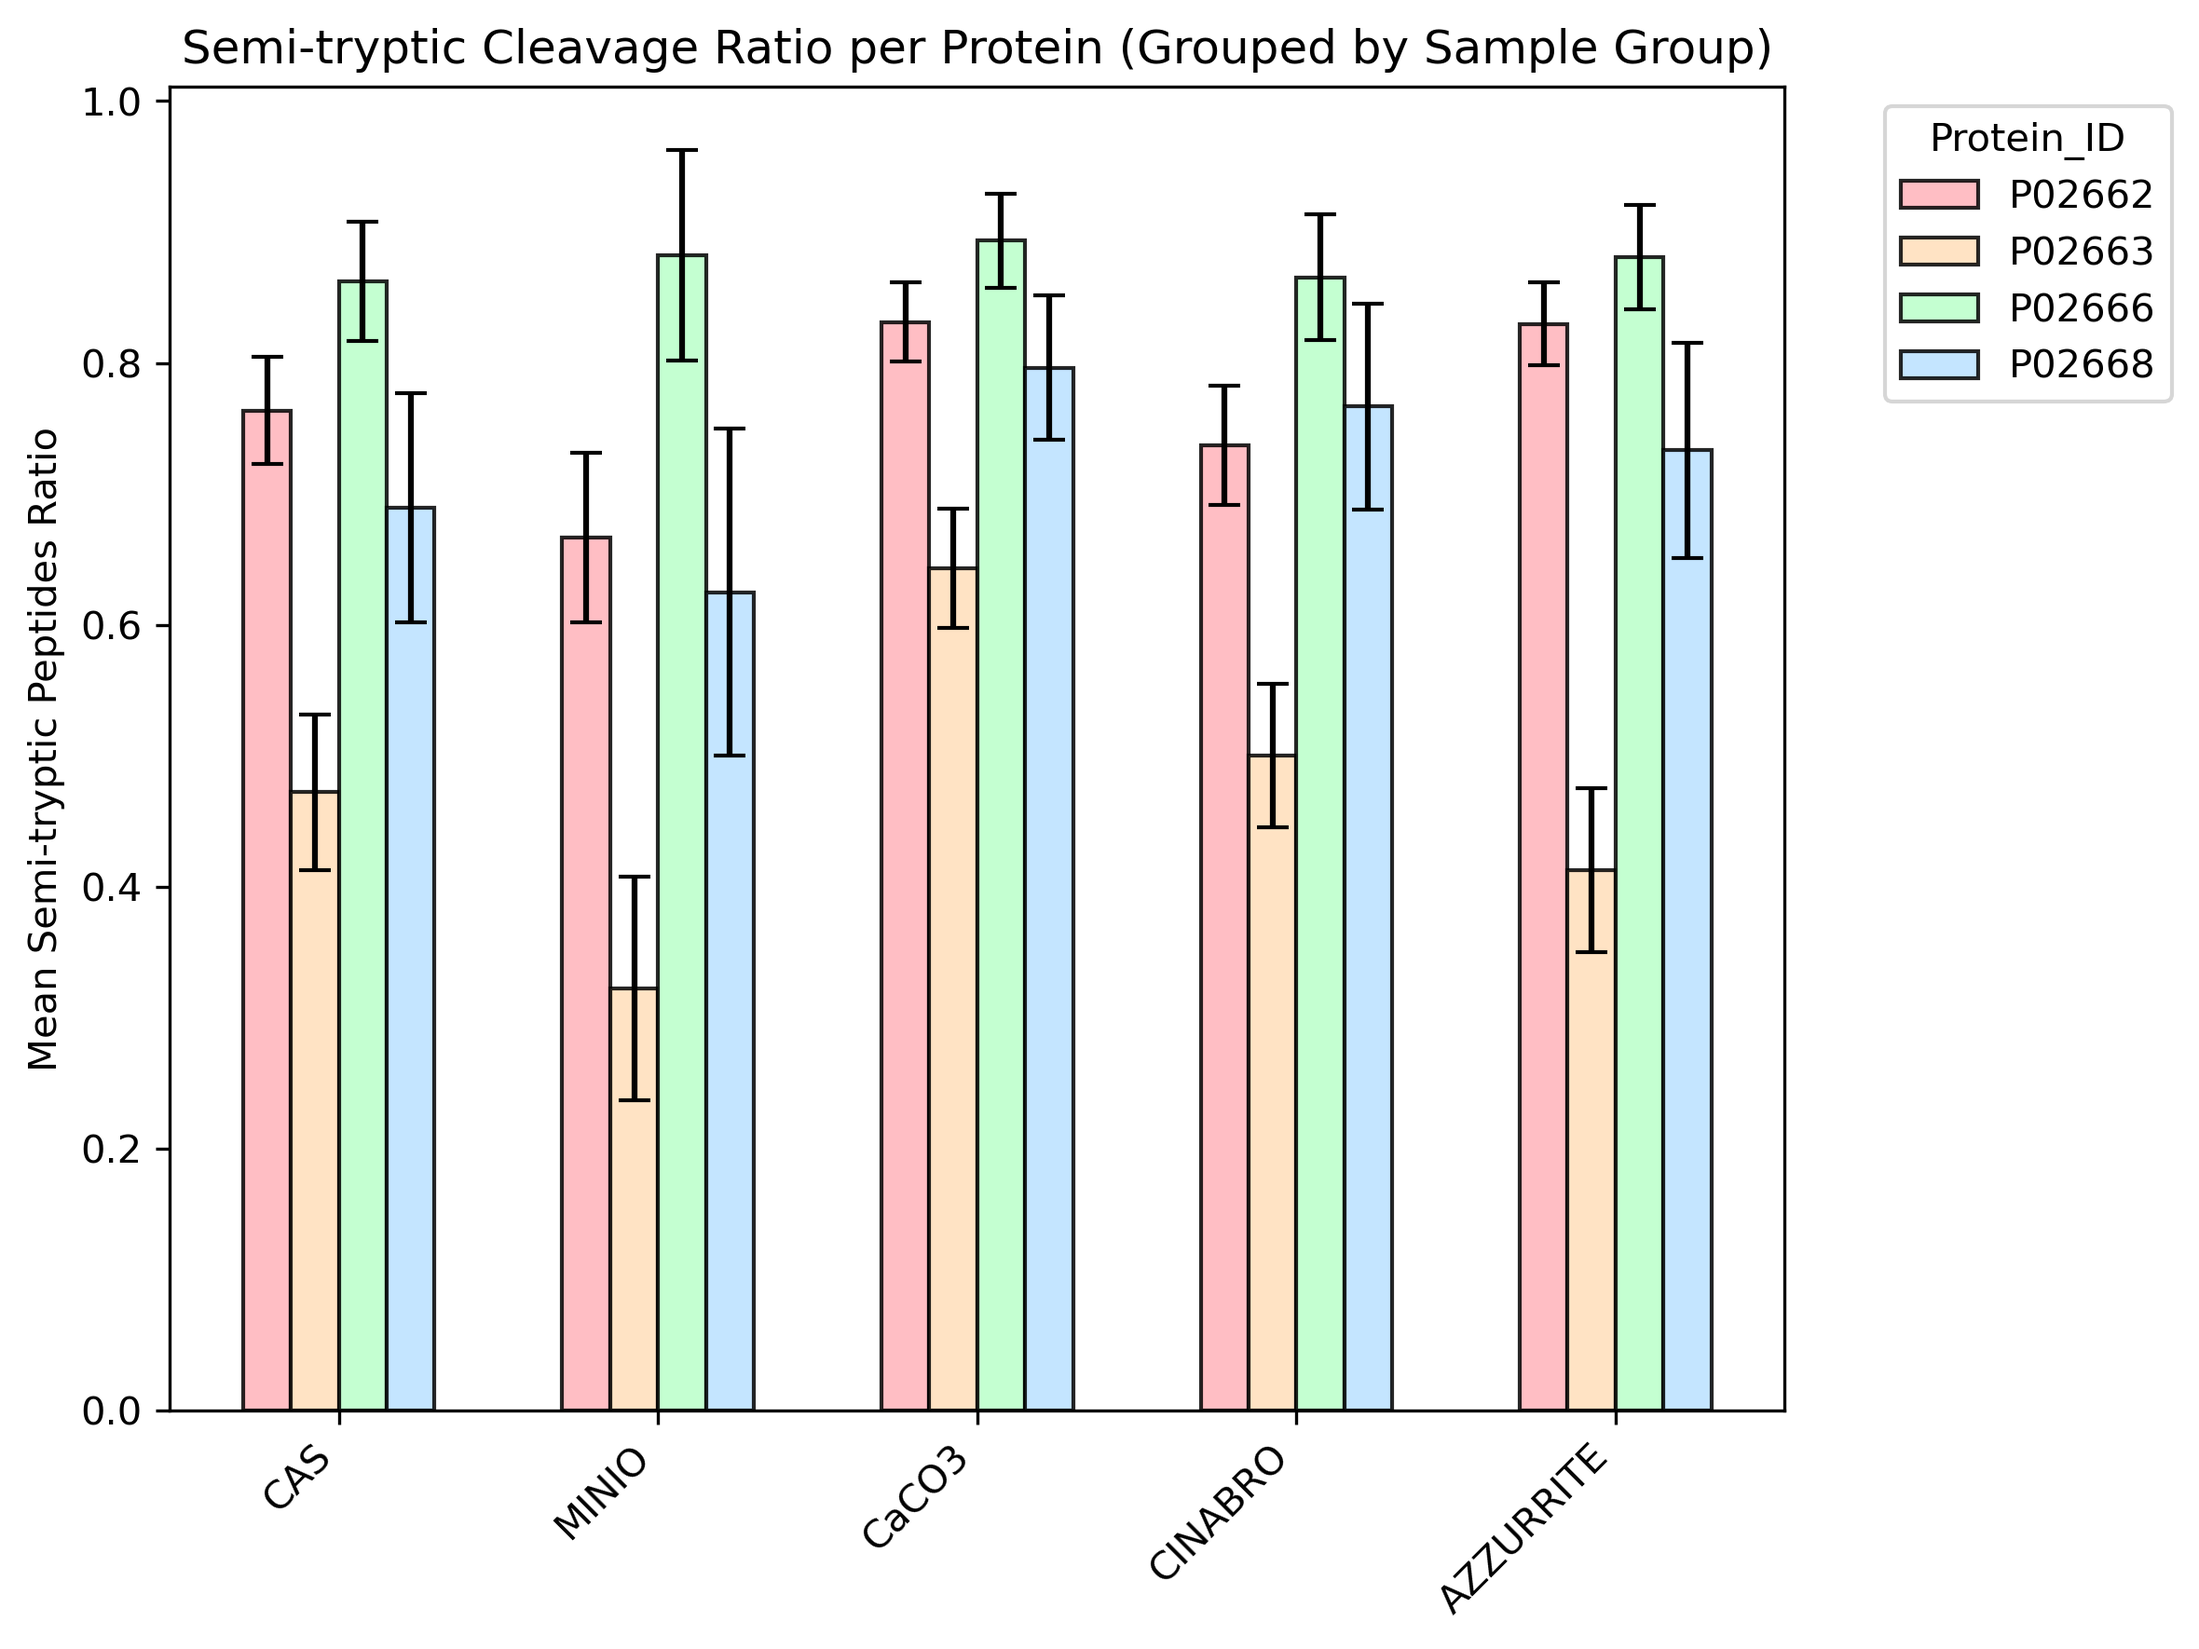
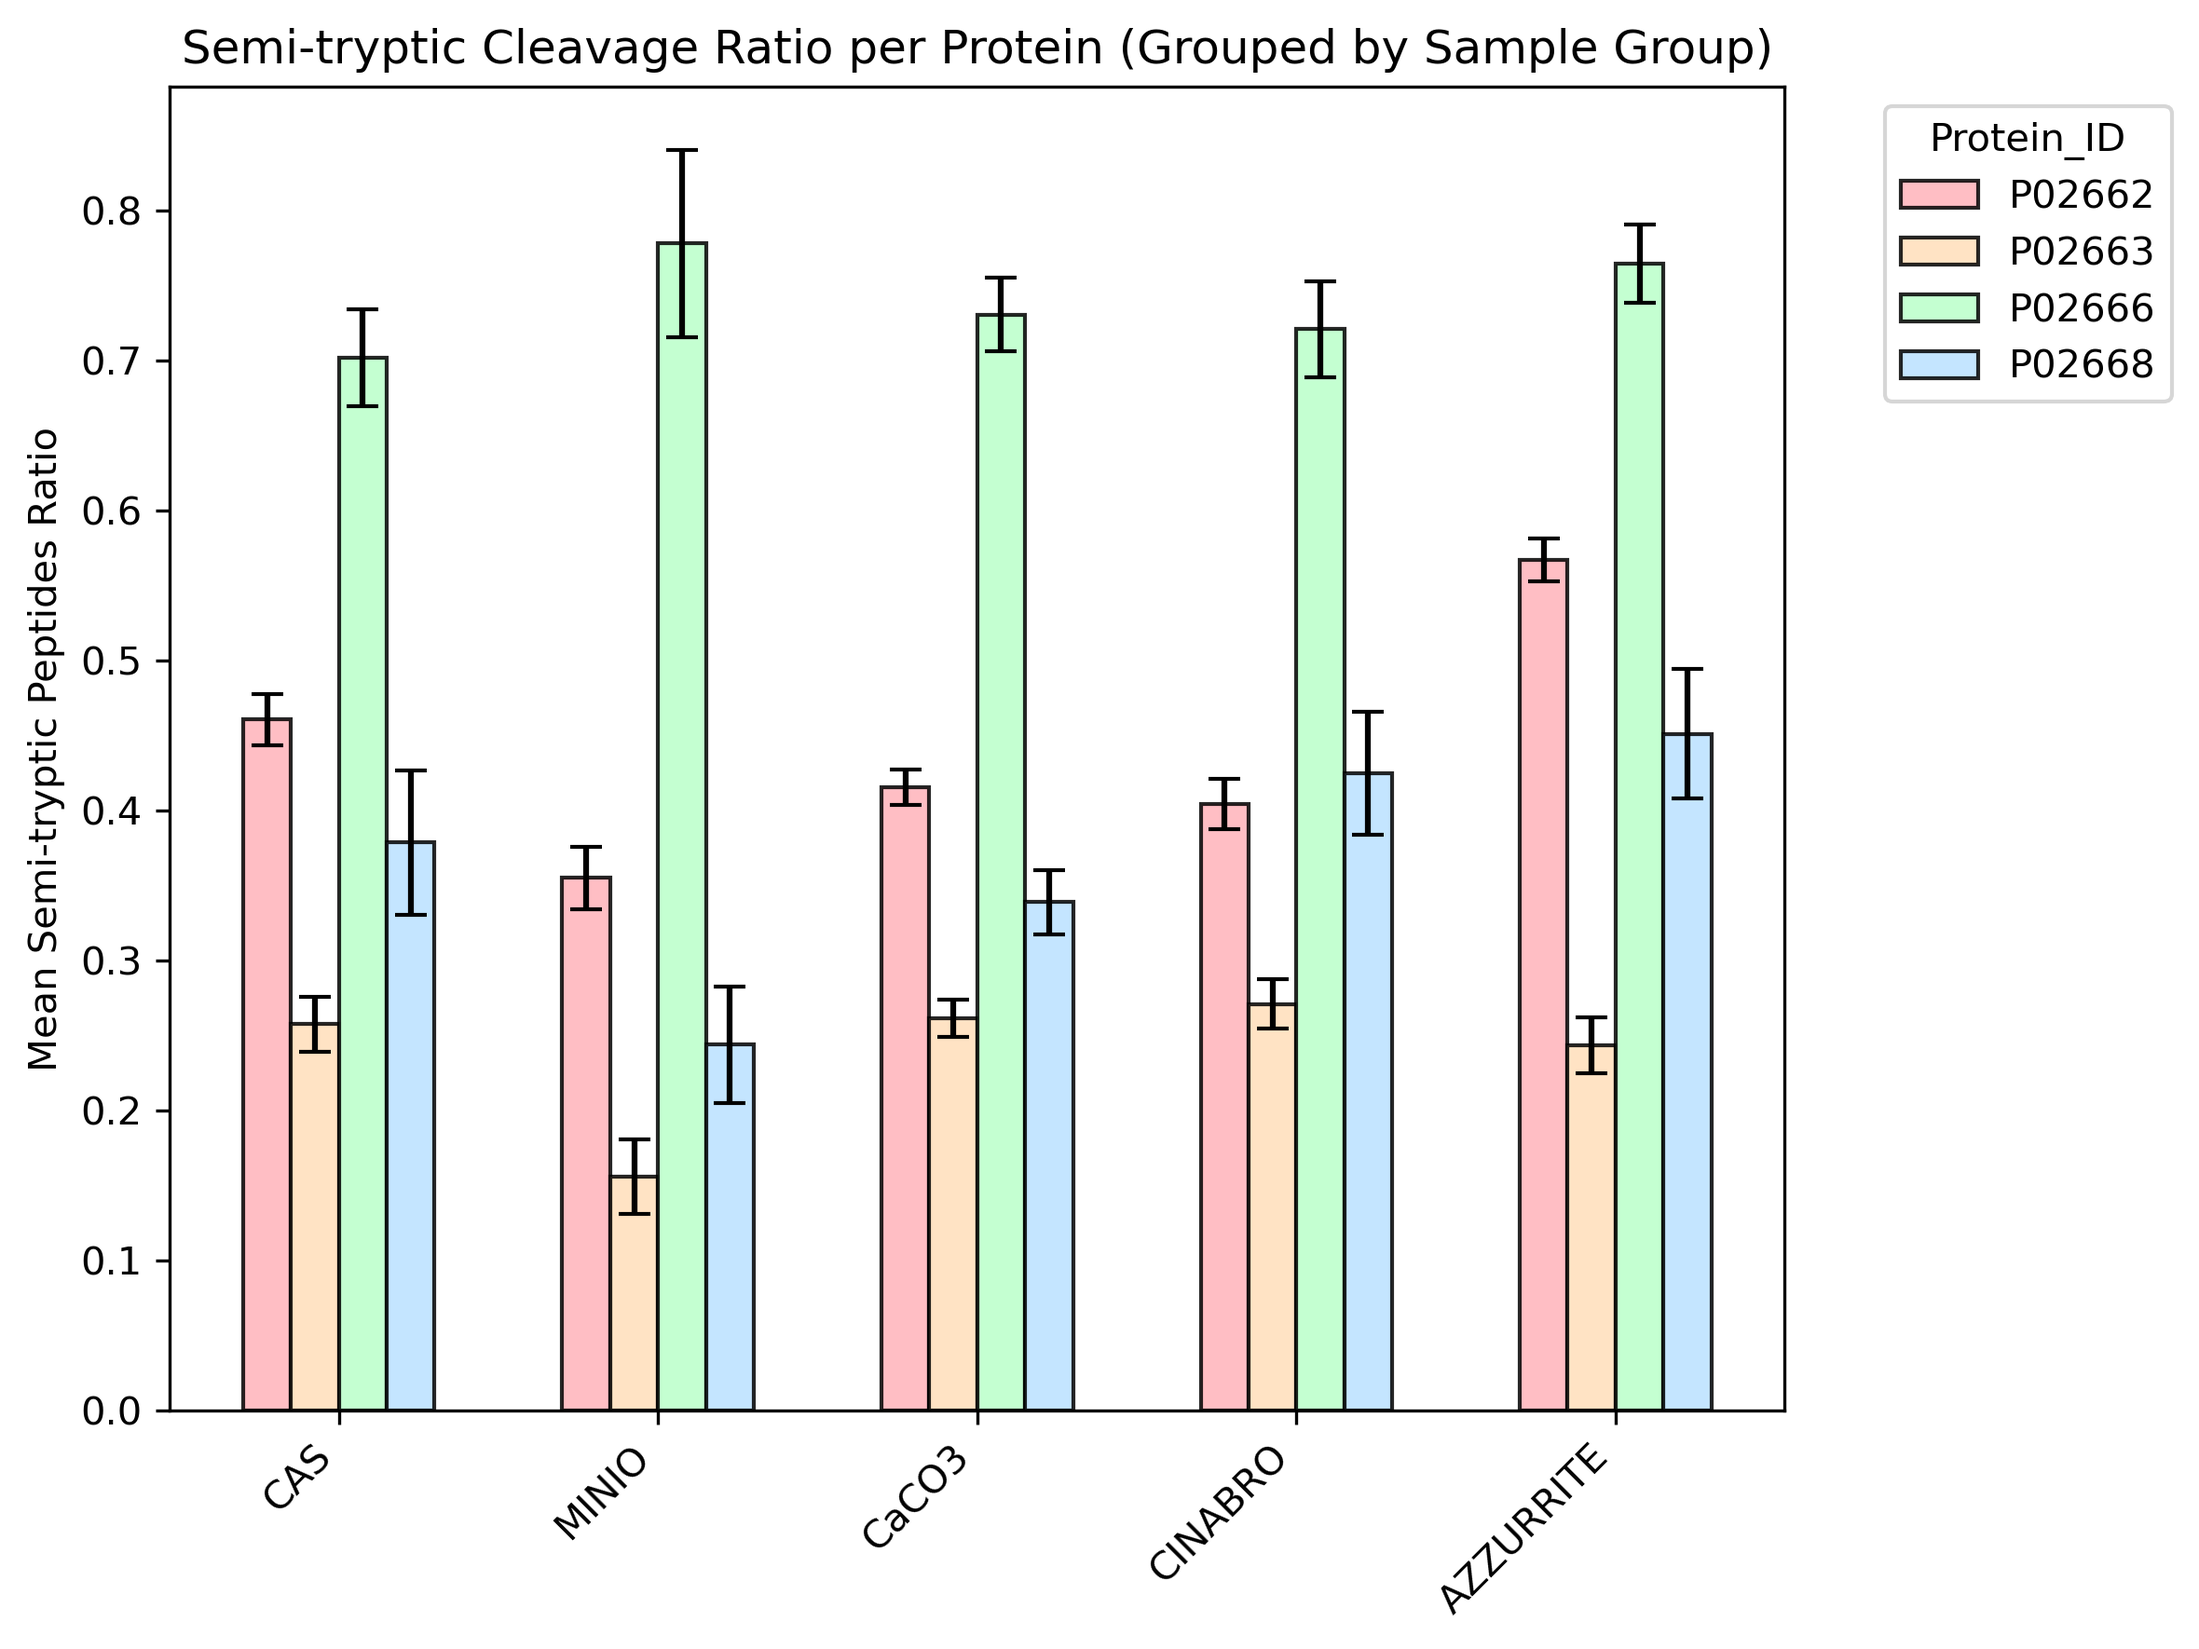
3rd commit

diff --git a/Backbone_cleavages_MQ.py b/Backbone_cleavages_MQ.py
@@ -409,52 +409,60 @@ def create_experiment_summary(df, uniprot_ids):
 
 def create_peptide_level_stats(df, uniprot_ids):
     """
-    Create peptide-level ratio statistics.
-    Groups protein variants under their main UniProt ID.
-    
-    Parameters:
-    -----------
-    df : pandas.DataFrame
-        Prepared DataFrame with peptide classifications
-    uniprot_ids : list
-        List of UniProt IDs to group by (e.g., ["P02668", "P02662", "P02666", "P02663"])
-        
-    Returns:
-    --------
-    pandas.DataFrame : Statistics per protein and sample group
+    FIXED VERSION: Includes ALL peptide observations, not just unique sequences.
     """
-    # Create a copy and add UniProt ID mapping
+    # Step 1: Create copy and add UniProt ID mapping
     df_grouped = df.copy()
     df_grouped['Protein_ID'] = df_grouped['Proteins'].apply(
         lambda x: map_protein_to_uniprot_id(x, uniprot_ids)
     )
     
-    # Filter out rows where no UniProt ID was matched
+    # Step 2: Filter out rows where no UniProt ID was matched
     df_grouped = df_grouped[df_grouped['Protein_ID'].notna()]
     
-    # Create peptide-level pivot using the mapped Protein_ID
+    # Step 3: Create row-level identifier to keep ALL observations
+    df_grouped = df_grouped.reset_index()
+    
+    # Step 4: Create pivot with row index instead of sequence grouping
     peptide_level = df_grouped.pivot_table(
-        index=['Protein_ID', 'Sample Group', 'Sequence'],
+        index=['Protein_ID', 'Sample Group', 'index'],  # ← Using row index keeps all observations
         columns='Peptide_Type',
         values='Product_Count_MSMS_Count',
         fill_value=0
     ).reset_index()
-
-    # Calculate ratio
-    peptide_level['Semi-tryptic Peptides Ratio'] = peptide_level['Semi-tryptic'] / (
-        peptide_level['Tryptic'] + peptide_level['Semi-tryptic']
-    )
-
-    # Calculate statistics using the mapped Protein_ID
+    
+    print(f"Fixed peptide-level shape: {peptide_level.shape}")
+    print("This now includes ALL peptide observations, not just unique sequences!")
+    
+    # Step 5: Calculate ratio
+    if 'Semi-tryptic' in peptide_level.columns and 'Tryptic' in peptide_level.columns:
+        peptide_level['Semi-tryptic Peptides Ratio'] = peptide_level['Semi-tryptic'] / (
+            peptide_level['Tryptic'] + peptide_level['Semi-tryptic']
+        )
+    else:
+        print(f"Available columns: {list(peptide_level.columns)}")
+        # Handle case where we might not have both peptide types
+        available_cols = [col for col in ['Semi-tryptic', 'Tryptic'] if col in peptide_level.columns]
+        if available_cols:
+            total_col = sum(peptide_level[col] for col in available_cols)
+            if 'Semi-tryptic' in available_cols:
+                peptide_level['Semi-tryptic Peptides Ratio'] = peptide_level['Semi-tryptic'] / total_col
+            else:
+                peptide_level['Semi-tryptic Peptides Ratio'] = 0
+        else:
+            print("No peptide type columns found!")
+            return None
+    
+    # Step 6: Calculate statistics
     stats_df = peptide_level.groupby(['Protein_ID', 'Sample Group'])[
         'Semi-tryptic Peptides Ratio'
     ].agg(
         Mean_Ratio='mean',
         Std_Dev='std',
         Std_Error=lambda x: x.std(ddof=1) / np.sqrt(len(x)) if len(x) > 0 else np.nan,
-        N='count'
+        N='count' #N represents ALL peptide observations data is based on
     ).reset_index()
-
+        
     return stats_df
 
 def create_global_summary(summary_pivot):
@@ -621,7 +629,8 @@ def plot_peptide_ratio_with_error_bars(stats_df,
         offsets = x + i * bar_width - ((num_proteins - 1) / 2) * bar_width
 
         from matplotlib import cm
-        tab20_colors = list(cm.get_cmap('tab20').colors)
+        tab20_colors = list(plt.colormaps['tab20'].colors)
+        
         # Fallback: assign colors to proteins not in color_map
         if color_map is None:
             color_map = {}
